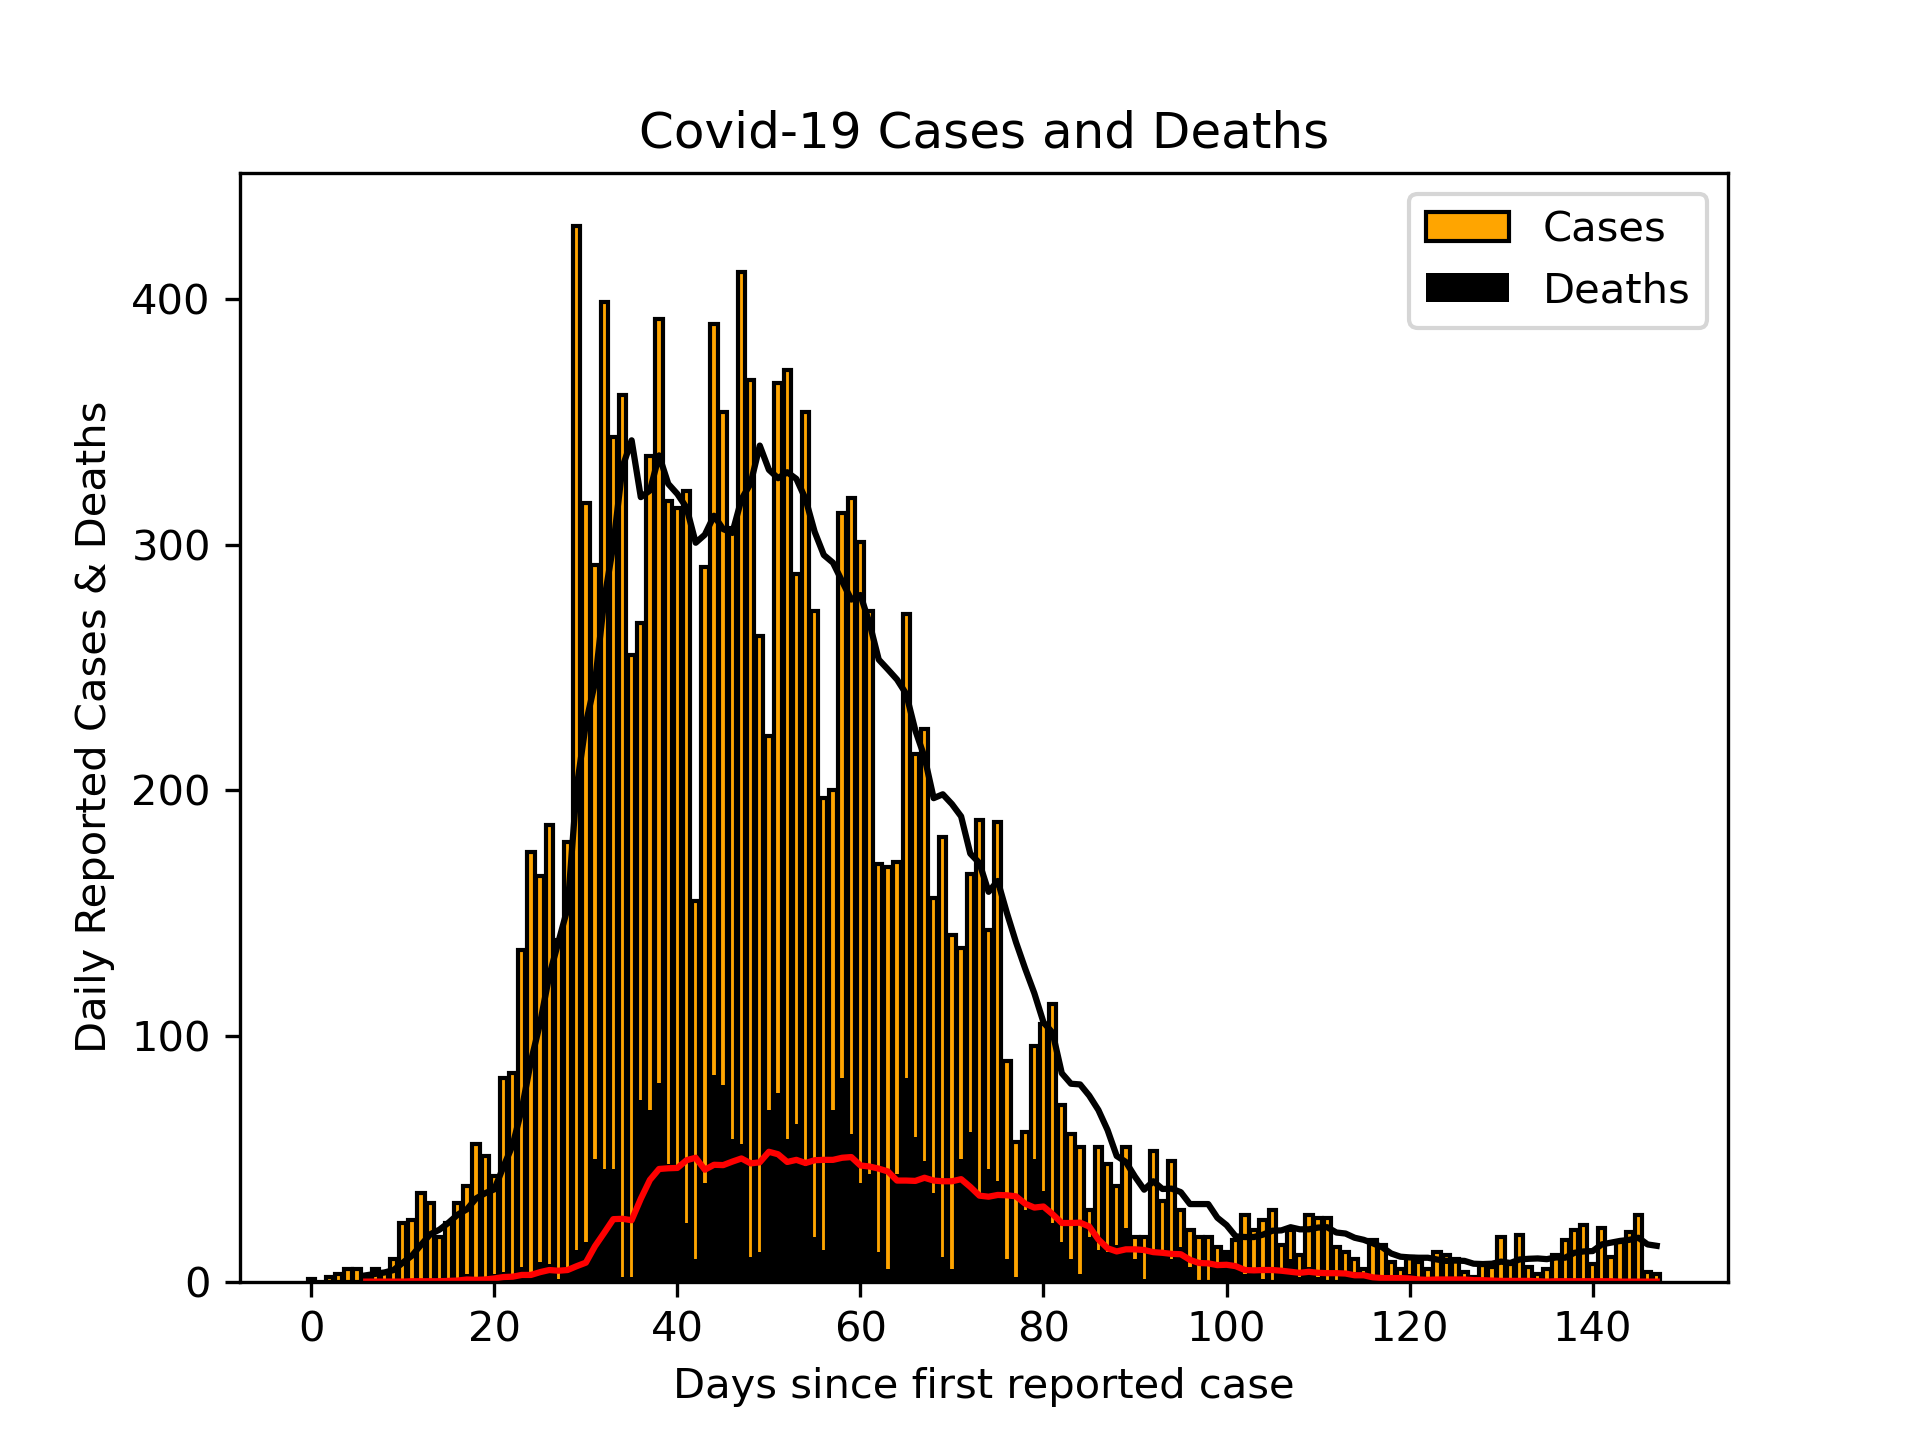
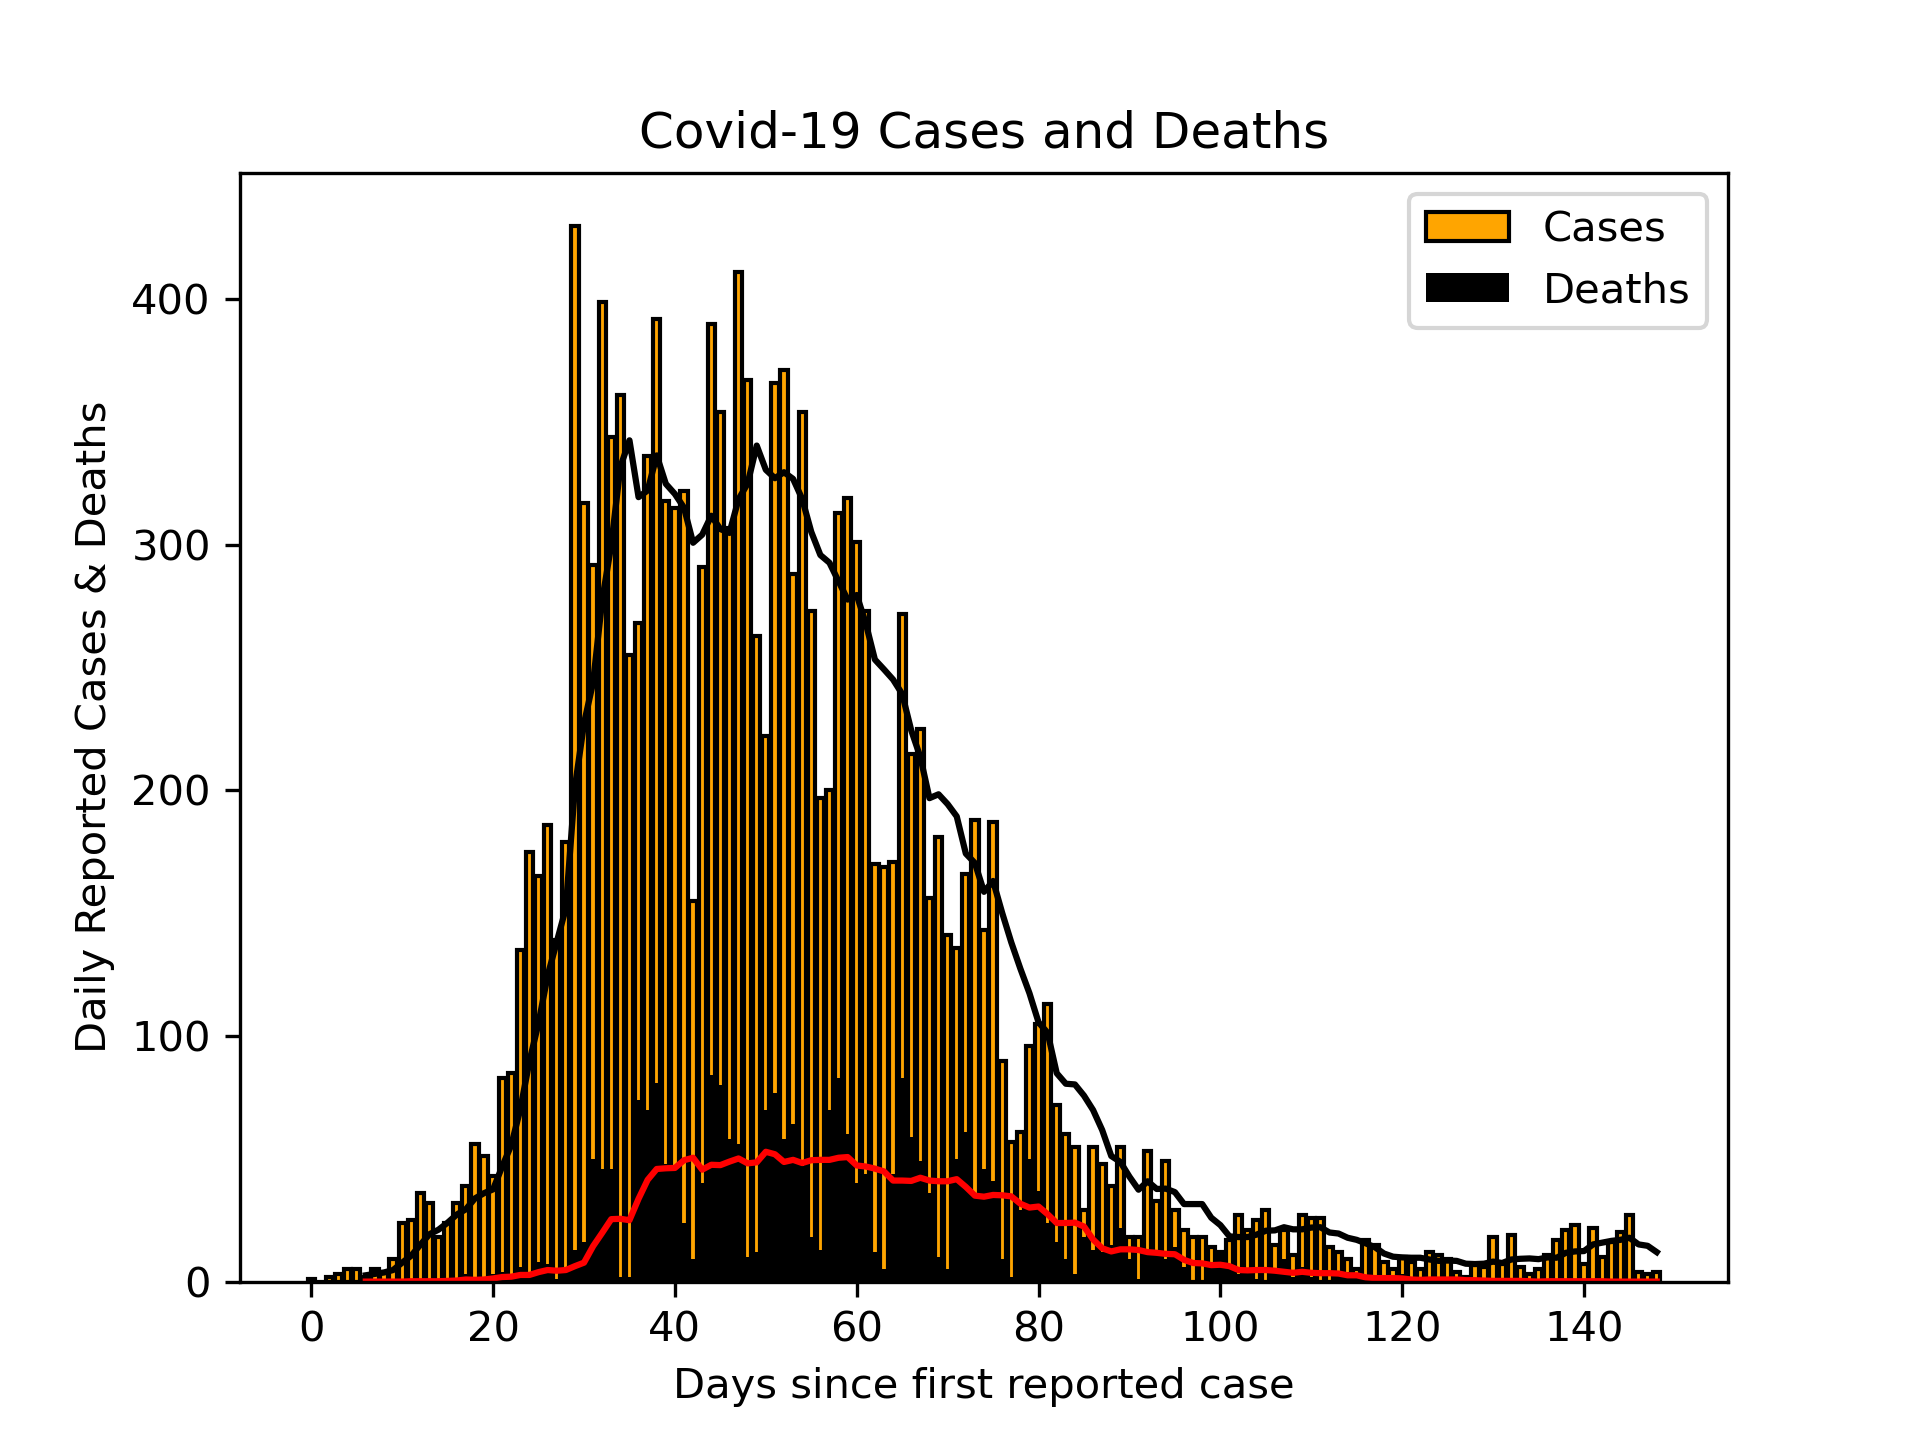
Updated Scottish cases 28/07/20

diff --git a/README.md b/README.md
@@ -1,3 +1,3 @@
-# Scottish Cases 27/07/20
+# Scottish Cases 28/07/20
 ![alt](scottish_cases.png)
 
